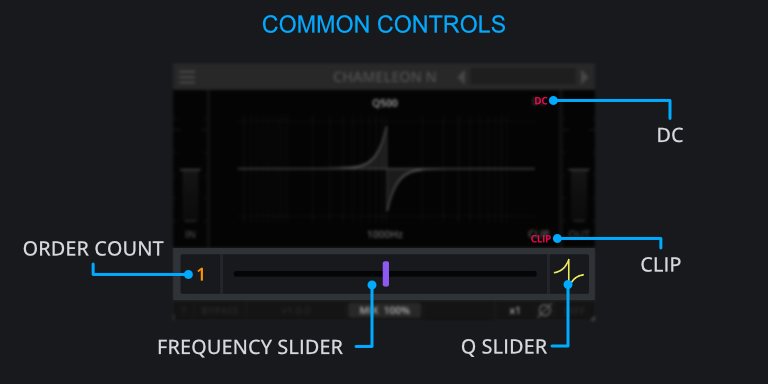
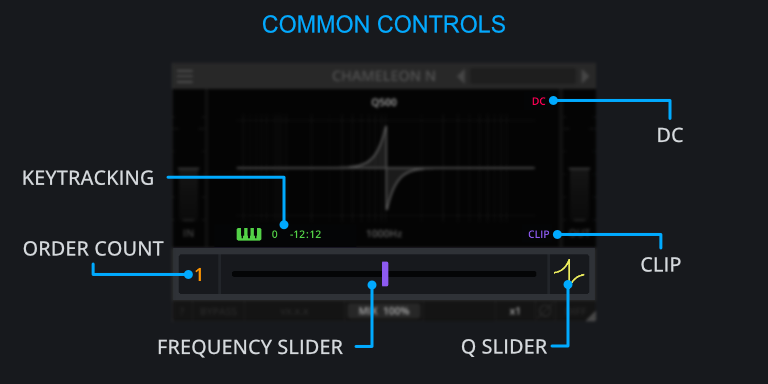
Added keytracking and filter type

diff --git a/chameleon/manual/04_controls.md b/chameleon/manual/04_controls.md
@@ -235,6 +235,7 @@ Shared primarily across the <span class="txt-yellow">Chameleon Suite</span> plug
 controls including:
 <div class="block bg-dark-1">
 - <span class="txt-red">DC</span> Button
+- <span class="txt-green">Keytracking</span> Controls
 - <span class="txt-red">CLIP</span> Button
 - <span class="txt-yellow">Order</span> Count
 - <span class="txt-purple">Frequency</span> Slider
@@ -287,30 +288,34 @@ filters. Those can cause a massive energy buildup, which can potentially damage 
 headphones and ears. Clipping the output to a maximum of 0dB offers some protection for such measures.
 </div>
 <span class="spacer"/>
+<div class="pb"></div>
 
-### Keytrack-Enable Button <span class="txt-green">(1, 2, N, X)</span>
-<span class="txt-yellow">*(Located bottom left of the Display)*</span>\
-When keytracking is enabled, midi input (on-notes and pitch-bend) control the frequency of the filter.
-This button enables the complete keytracking section. The other controls in this section have an effect only if keytracking is enabled.
 
-### Keytrack-Note offset <span class="txt-green">(1, 2, N, X)</span>
+
+### Keytracking <span class="txt-green">(1, 2, N, X)</span>
 <span class="txt-yellow">*(Located bottom left of the Display)*</span>\
-Offset incoming midi notes by this amount of semitones.
+<div class="image">
+![](assets/details_keytracking.png)
+</div>
+Click to toggle Keytracking. When enabled, the frequency slider will snap to the frequency of
+the incoming midi data, including pitch-bend CC.
+<span class="spacer"/>
+
+#### Keytrack-Note offset <span class="txt-green">(1, 2, N, X)</span>
+<span class="txt-yellow">*(Located bottom left of the Display)*</span>\
+Click and drag to internally offset the incoming midi notes by semitones to a range of -24 to +24.
 
 <div class="quote bg-yellow">
-Note that this describes an offset in semitones. Via plugin parameter automation of your DAW you can also set a keytracking frequency offset. This is currently not available via the UI.
+Whilst this is purely the offset in semitones, via the plugin parameters available in your DAW
+you can also set an additional linear frequency offset which is currently not available via the UI.
 </div>
 
-### Pitchbend range (up and down) <span class="txt-green">(1, 2, N, X)</span>
+#### Pitchbend Range (up and down) <span class="txt-green">(1, 2, N, X)</span>
 <span class="txt-yellow">*(Located bottom left of the Display)*</span>\
-Set the up- and down-pitchbend range in semitones.
-
-There is no consensus on pitchbend range. Most Synthesizers and plugins allow to configure the pitchbend range in their settings.
-To accommodate for this fact, Darkpalacestudio plugins allow a custom pitchbend range to match the sounds your are working with.
-
-<div class="quote bg-yellow">
-Pitchbend can be individually customized for up and down ranges, allowing e.g. to go 12 semitones down, but 24 up.
-</div>
+Click and drag to change the pitchbend range for up and down. There is no general range for pitchbend 
+which is why we offer the option to set a custom range of -36 to 0 for down and +36 to 0 for up.
+<span class="spacer"/>
+<div class="pb"></div>
 
 
 ### Frequency
@@ -365,6 +370,27 @@ whereas in <span class="txt-green">Chameleon X</span> additional distribution co
 <div class="image">
 ![](assets/details_specific.png)
 </div>
+
+### Filter Type
+<span class="txt-yellow">*(Located top-left of the Display)*</span>\
+Click to change type of allpass filter. This allows you to swap between currently 2 different 
+implementations:
+<div class="block bg-dark-1">
+- <span class="txt-red">Generic</span>
+- <span class="txt-red">State-Variable</span>
+</div>
+<span class="spacer"/>
+
+#### Generic
+The generic filter type is suited for static placement of the controls due to them introducing
+so called 'zipper-noises' but having an increased ringing effect with lower Q values.
+
+#### State-Variable
+The state-variable filter type is suited for 'dynamic' placement of the controls and suited for
+when modulating the controls. They wont introduce 'zipper-noises' but also have a lesser ringing
+effect with lower Q values.
+<span class="spacer"/>
+<div class="pb"></div>
 
 ### Frequency Width
 <span class="txt-yellow">*(Located left of the Control-Area)*</span>\
